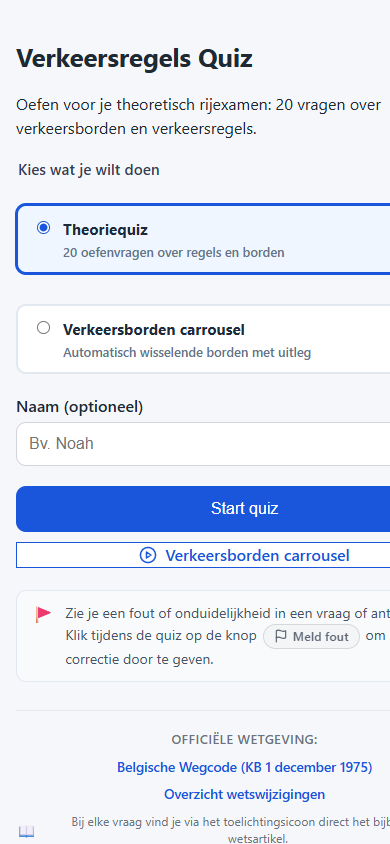
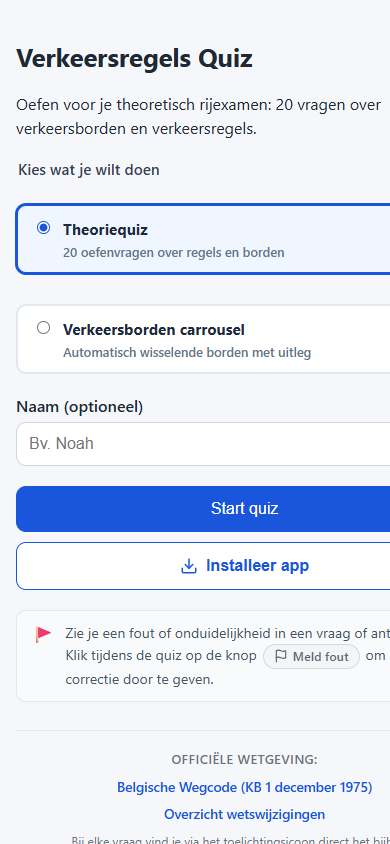
Removed redundant start screen carousel button in favor of top mode selection cards.

diff --git a/js/app.js b/js/app.js
@@ -82,7 +82,6 @@ const el = {
   btnCarouselNext: document.getElementById("btn-carousel-next"),
   btnCarouselExit: document.getElementById("btn-carousel-exit"),
   carouselDelayInfo: document.getElementById("carousel-delay-info"),
-  linkCarousel: document.getElementById("link-carousel"),
   radioModeQuiz: document.getElementById("radio-mode-quiz"),
   radioModeCarousel: document.getElementById("radio-mode-carousel"),
   modeCardQuiz: document.getElementById("mode-card-quiz"),
@@ -1194,7 +1193,6 @@ function setStartMode(mode) {
   if (el.modeCardCarousel) el.modeCardCarousel.classList.toggle("is-selected", isCarousel);
   if (el.quizStartFields) el.quizStartFields.classList.toggle("hidden", isCarousel);
   if (el.carouselStartFields) el.carouselStartFields.classList.toggle("hidden", !isCarousel);
-  if (el.linkCarousel) el.linkCarousel.classList.toggle("hidden", isCarousel);
   if (el.btnStart) {
     el.btnStart.textContent = isCarousel ? "Start carrousel" : "Start quiz";
   }
@@ -1211,15 +1209,6 @@ if (el.modeCardQuiz) {
 }
 if (el.modeCardCarousel) {
   el.modeCardCarousel.addEventListener("click", () => setStartMode("carousel"));
-}
-
-if (el.linkCarousel) {
-  el.linkCarousel.addEventListener("click", (e) => {
-    e.preventDefault();
-    const rawDelay = el.carouselDelaySelect ? el.carouselDelaySelect.value : "5";
-    const delay = parseInt(rawDelay, 10) || 5;
-    startCarousel({ delay });
-  });
 }
 
 document.addEventListener("keydown", (e) => {

diff --git a/index.html b/index.html
@@ -72,13 +72,6 @@
         </svg>
         <span>Installeer app</span>
       </button>
-      <a href="?sign-carrousel&delay=5" id="link-carousel" class="btn-secondary btn-carousel-link">
-        <svg class="carousel-nav-icon" aria-hidden="true" width="18" height="18" viewBox="0 0 24 24" fill="none" stroke="currentColor" stroke-width="2" stroke-linecap="round" stroke-linejoin="round">
-          <circle cx="12" cy="12" r="10"></circle>
-          <polygon points="10 8 16 12 10 16 10 8"></polygon>
-        </svg>
-        <span>Verkeersborden carrousel</span>
-      </a>
     </div>
     <p id="start-error" class="error hidden"></p>
     <div class="start-report-hint">

diff --git a/css/style.css b/css/style.css
@@ -1243,28 +1243,6 @@ button {
   box-shadow: 0 0 0 3px rgba(37, 99, 235, 0.15);
 }
 
-.btn-carousel-link {
-  display: inline-flex;
-  align-items: center;
-  justify-content: center;
-  gap: 8px;
-  text-decoration: none;
-  font-weight: 600;
-  width: 100%;
-  margin-top: 10px;
-  box-sizing: border-box;
-  text-align: center;
-  transition: background 0.15s ease, color 0.15s ease;
-}
-
-.btn-carousel-link:hover {
-  background: #eff6ff;
-}
-
-.carousel-nav-icon {
-  flex-shrink: 0;
-}
-
 #screen-carousel {
   max-width: 820px;
   margin: 0 auto;

diff --git a/tests/test_sign_carousel.py b/tests/test_sign_carousel.py
@@ -20,7 +20,6 @@ class TestSignCarousel(unittest.TestCase):
         html = INDEX_PATH.read_text(encoding="utf-8")
 
         self.assertIn('id="screen-carousel"', html, "index.html must define screen-carousel section")
-        self.assertIn('id="link-carousel"', html, "index.html must provide carousel link button on start screen")
         self.assertIn('id="carousel-stage"', html, "index.html must define carousel-stage container")
         self.assertIn('id="carousel-pause-overlay"', html, "index.html must define carousel-pause-overlay")
         self.assertIn('class="carousel-pause-banner"', html, "index.html must define carousel-pause-banner")
@@ -53,7 +52,6 @@ class TestSignCarousel(unittest.TestCase):
         self.assertIn(".carousel-progress-track", css, "style.css must style .carousel-progress-track")
         self.assertIn(".carousel-progress-fill", css, "style.css must style .carousel-progress-fill")
         self.assertIn(".btn-carousel-toggle.is-paused", css, "style.css must style paused toggle button")
-        self.assertIn(".btn-carousel-link", css, "style.css must style start screen carousel link button")
         self.assertIn(".carousel-card-body", css, "style.css must define carousel-card-body layout")
         self.assertIn(".start-mode-selector", css, "style.css must define start-mode-selector layout")
         self.assertIn(".start-mode-card", css, "style.css must define start-mode-card styling")
